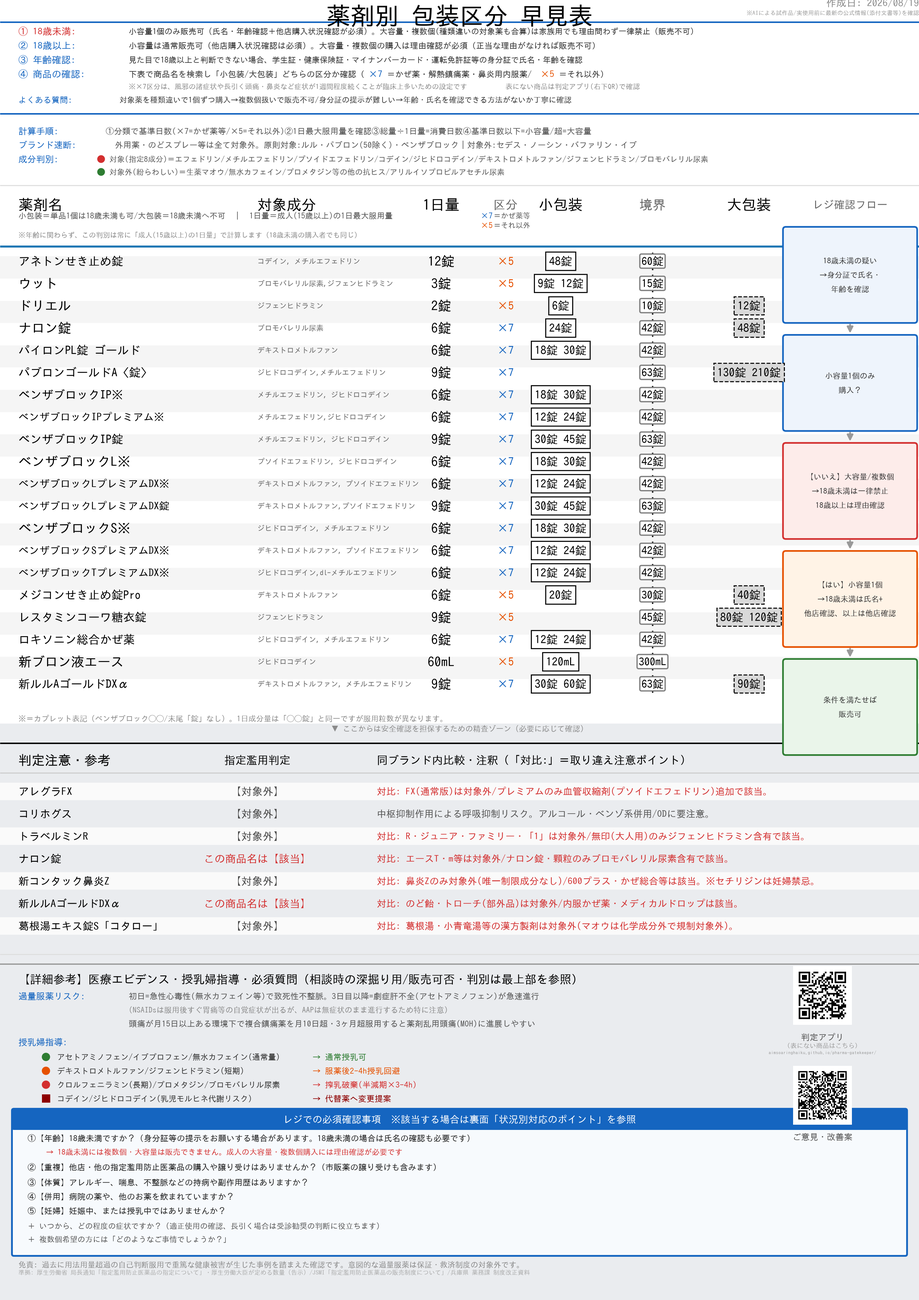
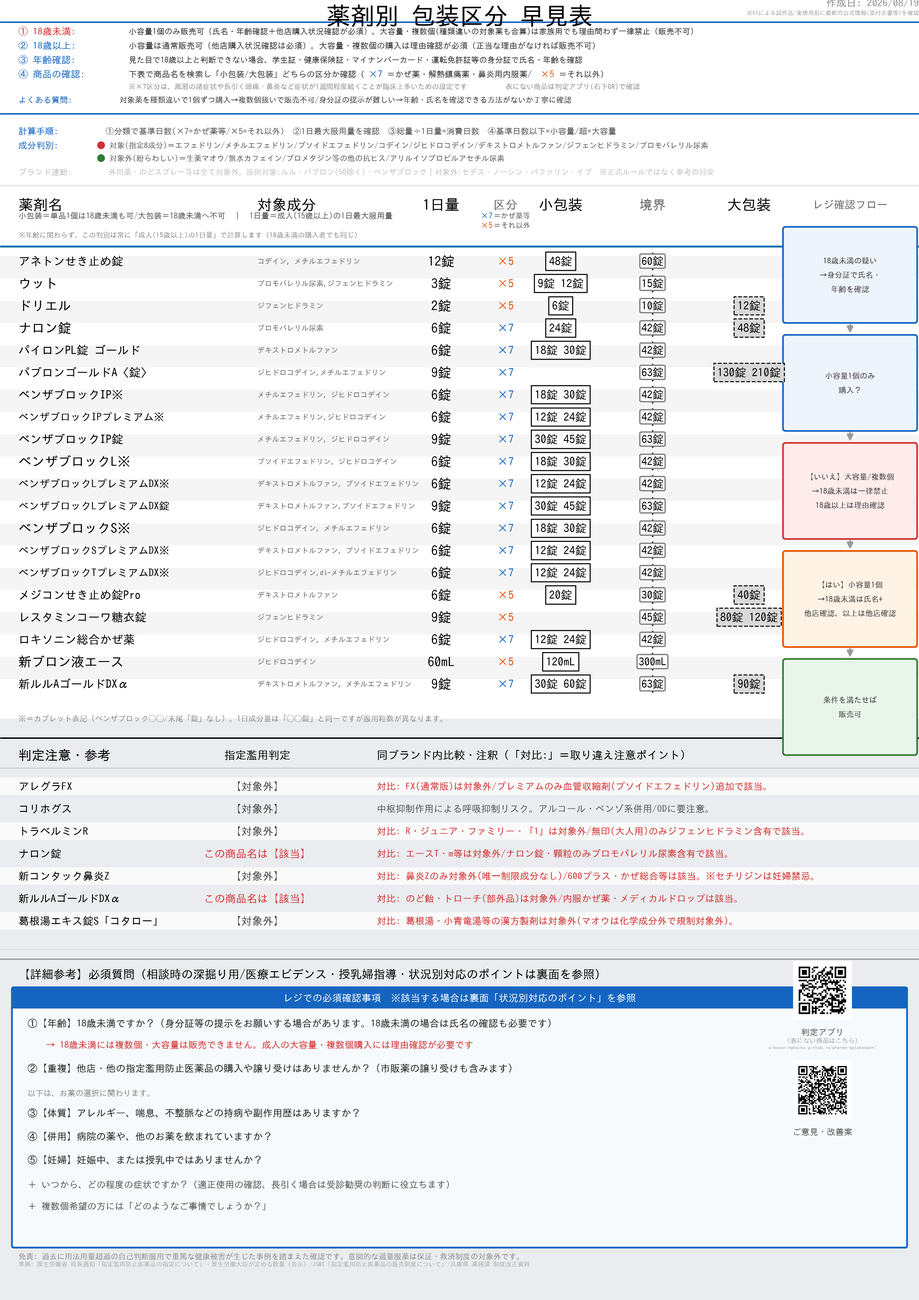
裏面を縦2横2グリッドに再設計、表面から授乳婦指導・過量服薬リスクを移動
【裏面】8ケースを①②④/③/⑤/その他の4象限に再編成し、色分けされた角丸ボックスで
視認性を改善。授乳婦指導を⑤妊娠・授乳中の象限に、過量服薬リスクを成分の落とし穴の
象限にそれぞれ統合。

【表面】
- 授乳婦指導・過量服薬リスクのセクションを裏面へ移動し、空いたスペースで必須質問
  ボックスを拡大（フォント・行間を拡大して読みやすく、「以下は、お薬の選択に関わり
  ます。」の区切りも追加）
- 精査ゾーンの見出しテキストを削除（背景の色分けのみ残す）
- 計算手順の各ステップ間にスペースを追加
- ブランド速断を成分判別の下に移動し、非公式の参考情報であることが分かるよう
  半透明・斜体のウォーターマーク調スタイルに変更

diff --git a/vpc_v11_back.py b/vpc_v11_back.py
@@ -13,11 +13,11 @@ ax.set_ylim(0, LOGICAL_H)
 ax.axis("off")
 fig.canvas.draw()  # テキスト幅計測のため、先に一度描画してレンダラーを確保
 
-BLUE, RED, ORANGE, GREEN, GRAY = "#1565c0", "#d32f2f", "#e65100", "#2e7d32", "#555555"
+BLUE, RED, ORANGE, GREEN, GRAY, DARKRED = "#1565c0", "#d32f2f", "#e65100", "#2e7d32", "#555555", "#8e0000"
 
 
-def text_width(text, fontsize, weight="normal"):
-    t = ax.text(0, -100, text, fontsize=fontsize, fontweight=weight, ha="left", va="center")
+def text_width(text, fontsize, weight="normal", style="normal"):
+    t = ax.text(0, -100, text, fontsize=fontsize, fontweight=weight, fontstyle=style, ha="left", va="center")
     fig.canvas.draw()
     bbox = t.get_window_extent(renderer=fig.canvas.get_renderer())
     inv = ax.transData.inverted()
@@ -30,9 +30,7 @@ def text_width(text, fontsize, weight="normal"):
 ax.text(LOGICAL_W / 2, 68.0, "【裏面】状況別対応のポイント（想定ケースと臨床エビデンス）", fontsize=13, fontweight="bold", ha="center", va="center", color=GRAY)
 ax.hlines(66.2, 2.0, 98.0, colors="#999999", linewidth=1.2)
 
-COL1_X, COL2_X = 2.0, 51.0
-COL_W = 47.0
-TITLE_FS, BODY_FS, LINE_H = 7.6, 6.8, 1.5
+TITLE_FS, BODY_FS, LINE_H = 8.2, 7.2, 1.75
 
 
 def wrap_to_width(text, fontsize, max_width):
@@ -50,12 +48,12 @@ def wrap_to_width(text, fontsize, max_width):
     return lines
 
 
-def draw_case(ax, x, y, q_num, category, condition, action_lines):
+def draw_case(ax, x, y, col_w, q_num, category, condition, action_lines):
     """タイトルの右に1点目の内容を続け、2点目以降はタイトル下に列挙。縦スペースを節約する。"""
     header = f"{q_num}［{category}］{condition}"
     ax.text(x, y, header, fontsize=TITLE_FS, fontweight="bold", ha="left", va="center", color=BLUE)
     header_w = text_width(header, TITLE_FS, "bold")
-    remaining_w = COL_W - header_w - 1.5
+    remaining_w = col_w - header_w - 1.5
 
     bullets = list(action_lines)
     first_on_same_line = False
@@ -75,73 +73,120 @@ def draw_case(ax, x, y, q_num, category, condition, action_lines):
         is_alert = ("禁忌" in bullet) or ("一律" in bullet) or ("不可" in bullet)
         color = RED if is_alert else "#333333"
         weight = "bold" if is_alert else "normal"
-        wrapped = wrap_to_width(bullet, BODY_FS, COL_W - 1.2)
+        wrapped = wrap_to_width(bullet, BODY_FS, col_w - 1.2)
         for wi, wline in enumerate(wrapped):
             indent = x + 1.2 if wi == 0 else x + 3.0
             ax.text(indent, text_y, wline, fontsize=BODY_FS, ha="left", va="center", color=color, fontweight=weight)
             text_y -= LINE_H
 
-    sep_y = text_y + LINE_H * 0.35
-    ax.hlines(sep_y, x, x + COL_W, colors="#e5e5e5", linewidth=0.7)
-    return sep_y - 0.9
+    return text_y - 0.55
 
 
-current_y_col1 = 63.5
-current_y_col2 = 63.5
+def draw_quadrant(ax, x, y, w, h, title, color, fill, cases):
+    """2x2グリッドの1マスを描画。角丸枠＋色付きヘッダー＋ケース一覧。"""
+    ax.add_patch(patches.FancyBboxPatch((x, y), w, h, boxstyle="round,pad=0.15",
+                                         linewidth=1.4, edgecolor=color, facecolor=fill, zorder=1))
+    header_h = 3.3
+    ax.add_patch(patches.FancyBboxPatch((x, y + h - header_h), w, header_h, boxstyle="round,pad=0.15",
+                                         linewidth=0, facecolor=color, zorder=2))
+    ax.text(x + w / 2, y + h - header_h / 2, title, fontsize=9.2, fontweight="bold",
+            ha="center", va="center", color="white", zorder=3)
 
-# --- 左カラム（年齢・重複・体質・成分の落とし穴） ---
-current_y_col1 = draw_case(ax, COL1_X, current_y_col1, "①②", "年齢・重複",
-    "18歳未満、または複数個(他店合算)を希望されたら", [
-    "▶ 18歳未満への大容量・複数個(種類違い含む)は理由問わず一律禁止（販売不可）。家族用でも例外なし。",
-    "▶ 12歳未満はコデイン系(ジヒドロコデイン含む)が処方・市販とも絶対禁忌。他成分の咳止めへ。",
-    "▶ 身分証の提示を拒否されたら、年齢確認不能のため販売不可。",
+    content_x = x + 1.8
+    content_w = w - 3.4
+    cy = y + h - header_h - 2.1
+    for item in cases:
+        if item[0] == "case":
+            _, q_num, category, condition, bullets = item
+            cy = draw_case(ax, content_x, cy, content_w, q_num, category, condition, bullets)
+        elif item[0] == "note":
+            _, text = item
+            wrapped = wrap_to_width(text, 6.2, content_w)
+            for wline in wrapped:
+                ax.text(content_x, cy, wline, fontsize=6.2, fontstyle="italic", ha="left", va="center", color=GRAY)
+                cy -= 1.3
+            cy -= 0.1
+        elif item[0] == "marker_list":
+            _, rows = item
+            for mcolor, mshape, tag, ingr in rows:
+                if mshape == "circle":
+                    ax.add_patch(patches.Circle((content_x + 0.5, cy), 0.4, facecolor=mcolor, edgecolor="none", zorder=3))
+                else:
+                    ax.add_patch(patches.Rectangle((content_x + 0.1, cy - 0.4), 0.8, 0.8, facecolor=mcolor, edgecolor="none", zorder=3))
+                wrapped = wrap_to_width(ingr, 6.1, content_w - 2.2)
+                ax.text(content_x + 1.5, cy, wrapped[0], fontsize=6.1, fontweight="bold", ha="left", va="center", color="#333333")
+                cy -= LINE_H * 0.85
+                ax.text(content_x + 1.5, cy, "→ " + tag, fontsize=6.2, fontweight="bold", ha="left", va="center", color=mcolor)
+                cy -= LINE_H * 0.95
+    return cy
+
+
+# --- 2x2グリッド配置 ---
+GRID_LEFT, GRID_RIGHT = 2.0, 98.0
+GRID_TOP, GRID_BOTTOM = 64.3, 4.0
+GUTTER = 2.0
+COL_W = (GRID_RIGHT - GRID_LEFT - GUTTER) / 2
+ROW_H = (GRID_TOP - GRID_BOTTOM - GUTTER) / 2
+
+Q1_X, Q2_X = GRID_LEFT, GRID_LEFT + COL_W + GUTTER
+ROW1_Y, ROW2_Y = GRID_BOTTOM + ROW_H + GUTTER, GRID_BOTTOM
+
+# --- Q1: 年齢・重複購入・併用 ---
+draw_quadrant(ax, Q1_X, ROW1_Y, COL_W, ROW_H, "①②④ 年齢・重複・併用", BLUE, "#f7fafd", [
+    ("case", "①②", "年齢・重複", "18歳未満、または複数個(他店合算)を希望されたら", [
+        "▶ 18歳未満への大容量・複数個(種類違い含む)は理由問わず一律禁止（販売不可）。家族用でも例外なし。",
+        "▶ 12歳未満はコデイン系(ジヒドロコデイン含む)が処方・市販とも絶対禁忌。他成分の咳止めへ。",
+        "▶ 身分証の提示を拒否されたら、年齢確認不能のため販売不可。",
+    ]),
+    ("case", "④", "併用", "SSRI服用中、または他の薬との併用を聞かれたら", [
+        "▶ DXM×SSRIはセロトニン症候群のリスク（濫用防止領域で最も急性致死率が高い相互作用）。慎重に対応。",
+        "▶ グレープフルーツジュースはDXMの血中濃度を上昇。マクロライド系/アゾール系薬はQT延長・心室頻拍に注意。",
+    ]),
 ])
 
-current_y_col1 = draw_case(ax, COL1_X, current_y_col1, "③", "体質(アレルギー)",
-    "解熱鎮痛薬でアレルギー歴があると聞いたら", [
-    "▶ ピリン疹ならNSAIDs（ロキソプロフェン等）へ代替可。",
-    "▶ アスピリン喘息はNSAIDs全般（ロキソプロフェン/イブプロフェン/アスピリン等）に100%交差耐性があり全てNG→AAP単剤のみ提案。",
+# --- Q2: 体質・持病・外用薬 ---
+draw_quadrant(ax, Q2_X, ROW1_Y, COL_W, ROW_H, "③ 体質・持病", ORANGE, "#fff8f0", [
+    ("case", "③", "体質(アレルギー)", "解熱鎮痛薬でアレルギー歴があると聞いたら", [
+        "▶ ピリン疹ならNSAIDs（ロキソプロフェン等）へ代替可。",
+        "▶ アスピリン喘息はNSAIDs全般（ロキソプロフェン/イブプロフェン/アスピリン等）に100%交差耐性があり全てNG→AAP単剤のみ提案。",
+    ]),
+    ("case", "③", "体質(喘息・不整脈等)", "喘息・不整脈・緑内障・前立腺肥大の既往を聞いたら", [
+        "▶ 抗コリン薬/第一世代抗ヒスタミン薬は、喘息で痰の粘稠化・排痰困難、不整脈で頻脈・QT延長のリスク。",
+        "▶ 緑内障は眼圧上昇、前立腺肥大は尿閉のリスクがあり要注意。単一成分薬を推奨。",
+    ]),
+    ("case", "※", "外用薬・アンナカ", "外用薬や無水カフェインについて聞かれたら", [
+        "▶ 軟膏・クリーム・目薬等の外用剤は規制対象成分が入っていても対象外。",
+        "▶ アンナカ（無水カフェイン）はお茶・コーヒー等にも大量に含まれ、医薬品だけの一律規制が非現実的なため対象外。",
+    ]),
 ])
 
-current_y_col1 = draw_case(ax, COL1_X, current_y_col1, "③", "体質(喘息・不整脈等)",
-    "喘息・不整脈・緑内障・前立腺肥大の既往を聞いたら", [
-    "▶ 抗コリン薬/第一世代抗ヒスタミン薬は、喘息で痰の粘稠化・排痰困難、不整脈で頻脈・QT延長のリスク。",
-    "▶ 緑内障は眼圧上昇、前立腺肥大は尿閉のリスクがあり要注意。単一成分薬を推奨。",
+# --- Q3: 妊娠・授乳中（授乳婦指導を統合） ---
+draw_quadrant(ax, Q1_X, ROW2_Y, COL_W, ROW_H, "⑤ 妊娠・授乳中", RED, "#fdf5f5", [
+    ("case", "⑤", "妊婦・授乳", "妊娠中、または授乳中と分かったら", [
+        "▶ 妊娠後期のコデイン系（パブロン/ルル等）は禁忌（新生児呼吸抑制）→メジコン等単剤（デキストロメトルファン）を提案。",
+        "▶ 抗コリン薬（ブスコパン等）はOTCでは一律禁忌（処方箋なら有益性投与可）。授乳中は母乳分泌低下・乳児頻脈のリスクで中断。",
+    ]),
+    ("note", "授乳婦指導（成分別の目安）:"),
+    ("marker_list", [
+        (GREEN, "circle", "通常授乳可", "アセトアミノフェン/イブプロフェン/無水カフェイン(通常量)"),
+        (ORANGE, "circle", "服薬後2-4h授乳回避", "デキストロメトルファン/ジフェンヒドラミン(短期)"),
+        (RED, "circle", "搾乳破棄(半減期×3-4h)", "クロルフェニラミン(長期)/プロメタジン/ブロモバレリル尿素"),
+        (DARKRED, "square", "代替薬へ変更提案", "コデイン/ジヒドロコデイン(乳児モルヒネ代謝リスク)"),
+    ]),
 ])
 
-current_y_col1 = draw_case(ax, COL1_X, current_y_col1, "※", "成分の落とし穴",
-    "長期連用・依存が疑われたら", [
-    "▶ ブロモバレリル尿素等ウレイド系は長期乱用で臭素蓄積→歩行困難・幻覚（慢性臭素中毒）。高齢者はせん妄・認知機能低下も。",
-    "▶ 月15日以上頭痛がある環境で複合鎮痛薬を月10日超・3ヶ月超服用→薬剤乱用頭痛（MOH）に進展。",
+# --- Q4: その他の注意点（過量服薬リスクを成分の落とし穴に統合） ---
+draw_quadrant(ax, Q2_X, ROW2_Y, COL_W, ROW_H, "その他の注意点", GREEN, "#f3f9f3", [
+    ("case", "※", "成分の落とし穴・過量服薬", "長期連用・依存や過量服薬が疑われたら", [
+        "▶ ブロモバレリル尿素等ウレイド系は長期乱用で臭素蓄積→歩行困難・幻覚（慢性臭素中毒）。高齢者はせん妄・認知機能低下も。",
+        "▶ 月15日以上頭痛がある環境で複合鎮痛薬を月10日超・3ヶ月超服用→薬剤乱用頭痛（MOH）に進展。",
+        "▶ 過量服薬は初日=急性心毒性(無水カフェイン等)、3日目以降=劇症肝不全(アセトアミノフェン)が急速進行。NSAIDsは自覚症状ありだがAAPは無症状のまま進行するため特に注意。",
+    ]),
+    ("case", "※", "運転", "運転前後の服用を心配されたら", [
+        "▶ 最も排泄が遅い成分を基準に判断。経口・dl体クロルフェニラミン（アネトン/パブロンゴールドA等）の半減期は12〜15h",
+        "  →服用当日〜翌朝は運転を避けるよう案内。",
+    ]),
 ])
-
-# --- 右カラム（併用・妊婦授乳・その他） ---
-current_y_col2 = draw_case(ax, COL2_X, current_y_col2, "④", "併用",
-    "SSRI服用中、または他の薬との併用を聞かれたら", [
-    "▶ DXM×SSRIはセロトニン症候群のリスク（濫用防止領域で最も急性致死率が高い相互作用）。慎重に対応。",
-    "▶ グレープフルーツジュースはDXMの血中濃度を上昇。高脂肪食後はウレイド系の吸収を促進。マクロライド系/アゾール系薬はQT延長・心室頻拍に注意。",
-])
-
-current_y_col2 = draw_case(ax, COL2_X, current_y_col2, "⑤", "妊婦・授乳",
-    "妊娠中、または授乳中と分かったら", [
-    "▶ 妊娠後期のコデイン系（パブロン/ルル等）は禁忌（新生児呼吸抑制）→メジコン等単剤（デキストロメトルファン）を提案。",
-    "▶ 抗コリン薬（ブスコパン等）はOTCでは一律禁忌（処方箋なら有益性投与可）。授乳中は母乳分泌低下・乳児頻脈のリスクで中断。",
-])
-
-current_y_col2 = draw_case(ax, COL2_X, current_y_col2, "※", "運転",
-    "運転前後の服用を心配されたら", [
-    "▶ 最も排泄が遅い成分を基準に判断。経口・dl体クロルフェニラミン（アネトン/パブロンゴールドA等）の半減期は12〜15h",
-    "  →服用当日〜翌朝は運転を避けるよう案内。",
-])
-
-current_y_col2 = draw_case(ax, COL2_X, current_y_col2, "※", "外用薬・アンナカ",
-    "外用薬や無水カフェインについて聞かれたら", [
-    "▶ 軟膏・クリーム・目薬等の外用剤は規制対象成分が入っていても対象外。",
-    "▶ アンナカ（無水カフェイン）はお茶・コーヒー・エナジードリンク等にも大量に含まれ、医薬品だけの一律規制が非現実的なため対象外（危険性は認識されている）。",
-])
-
-# --- 中央区切り線 ---
-ax.plot([49.5, 49.5], [4.0, 66.2], color="#dddddd", linewidth=1.0, linestyle="--")
 
 # --- 下部免責・出典 ---
 ax.text(LOGICAL_W / 2, 2.6, "※本マニュアルは一次的対応の目安であり、個別の診断を行うものではありません。最終判断は薬剤師・登録販売者の専門的知見に基づき実施してください。",
@@ -153,4 +198,3 @@ ax.text(LOGICAL_W / 2, 1.3,
 plt.savefig(OUTPUT_PNG, dpi=300)  # bbox_inches="tight"を使わない（比率固定のため）
 plt.close()
 print(f"v11【裏面】出力完了: {OUTPUT_PNG}")
-print(f"col1_end={current_y_col1:.2f} col2_end={current_y_col2:.2f}")

diff --git a/vpc_v11_front.py b/vpc_v11_front.py
@@ -197,16 +197,11 @@ current_y -= 1.5
 ax.hlines(current_y, 0, LOGICAL_W, colors=BLUE, linewidth=1.2)
 current_y -= 0.35
 
-# --- 計算手順・ブランド速断・成分判別（実務でよく使う判別系を、本体テーブルの直前に集約） ---
+# --- 計算手順・成分判別・ブランド速断（実務でよく使う判別系を、本体テーブルの直前に集約） ---
 current_y -= 1.55
 ax.text(COL_NAME_X, current_y, "計算手順:", fontsize=7.07, fontweight="bold", ha="left", va="center", color=BLUE)
 ax.text(COL_NAME_X + 9.5, current_y,
-        "①分類で基準日数(×7=かぜ薬等/×5=それ以外)②1日最大服用量を確認③総量÷1日量=消費日数④基準日数以下=小容量/超=大容量",
-        fontsize=6.4, ha="left", va="center", color=GRAY)
-current_y -= 1.5
-ax.text(COL_NAME_X, current_y, "ブランド速断:", fontsize=7.07, fontweight="bold", ha="left", va="center", color=BLUE)
-ax.text(COL_NAME_X + 10.5, current_y,
-        "外用薬・のどスプレー等は全て対象外。原則対象:ルル・パブロン(50除く)・ベンザブロック｜対象外:セデス・ノーシン・バファリン・イブ",
+        "①分類で基準日数(×7=かぜ薬等/×5=それ以外)　②1日最大服用量を確認　③総量÷1日量=消費日数　④基準日数以下=小容量/超=大容量",
         fontsize=6.4, ha="left", va="center", color=GRAY)
 current_y -= 1.55
 ax.text(COL_NAME_X, current_y, "成分判別:", fontsize=7.07, fontweight="bold", ha="left", va="center", color=BLUE)
@@ -219,6 +214,13 @@ marker(ax, COL_NAME_X + 9.0, current_y, GREEN, "circle", 0.42)
 ax.text(COL_NAME_X + 9.9, current_y,
         "対象外(紛らわしい)＝生薬マオウ/無水カフェイン/プロメタジン等の他の抗ヒス/アリルイソプロピルアセチル尿素",
         fontsize=5.9, ha="left", va="center", color=GRAY)
+current_y -= 1.5
+ax.text(COL_NAME_X, current_y, "ブランド速断:", fontsize=6.6, fontweight="bold", fontstyle="italic",
+        ha="left", va="center", color=LGRAY, alpha=0.55)
+ax.text(COL_NAME_X + 9.8, current_y,
+        "外用薬・のどスプレー等は全て対象外。原則対象:ルル・パブロン(50除く)・ベンザブロック｜対象外:セデス・ノーシン・バファリン・イブ"
+        "　※正式ルールではなく参考の目安",
+        fontsize=6.0, fontstyle="italic", ha="left", va="center", color=LGRAY, alpha=0.55)
 current_y -= 1.45
 ax.hlines(current_y, 0, LOGICAL_W, colors="#dddddd", linewidth=0.8)
 current_y -= 0.35
@@ -325,12 +327,9 @@ ax.text(COL_NAME_X, current_y,
         "※＝カプレット表記（ベンザブロック◯◯/末尾「錠」なし）。1日成分量は「◯◯錠」と同一ですが服用粒数が異なります。",
         fontsize=6.1, ha="left", va="center", color="#888888")
 
-# --- ゾーン区分：ここから下は「精査ゾーン」（安全確認業務の質を担保する詳細情報） ---
-current_y -= 1.1
+current_y -= 0.55
 zone_top = current_y + 0.55
 ax.add_patch(patches.Rectangle((0, -3), LOGICAL_W, zone_top + 3, facecolor="#eaecef", edgecolor="none", zorder=-2))
-ax.text(LOGICAL_W / 2, current_y, "▼ ここからは安全確認を担保するための精査ゾーン（必要に応じて確認）",
-        fontsize=6.0, fontweight="bold", ha="center", va="center", color="#8a8a8a", style="italic")
 current_y -= 0.55
 
 # --- 判定注意・参考（マトリックス） ---
@@ -409,41 +408,14 @@ DL, DR = 0.0, 82.0  # 本文カラム幅（右のQR縦積み列を避ける）
 y = detail_top
 ax.hlines(y, 0, LOGICAL_W, colors="#999999", linewidth=1.0)
 y -= 1.62
-ax.text(COL_NAME_X, y, "【詳細参考】医療エビデンス・授乳婦指導・必須質問（相談時の深掘り用/販売可否・判別は最上部を参照）",
+ax.text(COL_NAME_X, y, "【詳細参考】必須質問（相談時の深掘り用/医療エビデンス・授乳婦指導・状況別対応のポイントは裏面を参照）",
         fontsize=9.15, fontweight="bold", ha="left", va="center")
 y -= 1.84
-
-# E. 医療エビデンス（1行要約×3）
-ax.text(COL_NAME_X, y, "過量服薬リスク:", fontsize=7.07, fontweight="bold", ha="left", va="center", color=BLUE)
-ax.text(COL_NAME_X + 12.0, y, "初日=急性心毒性(無水カフェイン等)で致死性不整脈。3日目以降=劇症肝不全(アセトアミノフェン)が急速進行",
-        fontsize=6.59, ha="left", va="center", color=GRAY)
-y -= 1.5
-ax.text(COL_NAME_X + 12.0, y, "(NSAIDsは服用後すぐ胃痛等の自覚症状が出るが、AAPは無症状のまま進行するため特に注意)",
-        fontsize=6.0, ha="left", va="center", color=LGRAY)
-y -= 1.5
-ax.text(COL_NAME_X + 12.0, y, "頭痛が月15日以上ある環境下で複合鎮痛薬を月10日超・3ヶ月超服用すると薬剤乱用頭痛(MOH)に進展しやすい",
-        fontsize=6.4, ha="left", va="center", color=GRAY)
-y -= 2.0
-
-# F. 授乳婦指導（色マーカー4段）
-ax.text(COL_NAME_X, y, "授乳婦指導:", fontsize=7.07, fontweight="bold", ha="left", va="center", color=BLUE)
-y -= 1.62
-nursing_rows = [
-    (GREEN, "circle", "通常授乳可", "アセトアミノフェン/イブプロフェン/無水カフェイン(通常量)"),
-    (ORANGE, "circle", "服薬後2-4h授乳回避", "デキストロメトルファン/ジフェンヒドラミン(短期)"),
-    (RED, "circle", "搾乳破棄(半減期×3-4h)", "クロルフェニラミン(長期)/プロメタジン/ブロモバレリル尿素"),
-    (DARKRED, "square", "代替薬へ変更提案", "コデイン/ジヒドロコデイン(乳児モルヒネ代謝リスク)"),
-]
-for color, shape, tag, ingr in nursing_rows:
-    marker(ax, COL_NAME_X + 3.0, y, color, shape, 0.45)
-    ax.text(COL_NAME_X + 4.2, y, ingr, fontsize=6.3, fontweight="bold", ha="left", va="center", color="#333333")
-    ax.text(COL_NAME_X + 32.0, y, "→ " + tag, fontsize=6.4, fontweight="bold", ha="left", va="center", color=color)
-    y -= 1.51
 
 # G. 必須質問（厚労省チェック項目に準拠。該当時は裏面の「状況別対応のポイント」を参照）
 y -= 0.5
 box_top = y + 0.7
-box_h = 15.6
+box_h = box_top - 5.9
 ax.add_patch(patches.FancyBboxPatch((COL_NAME_X - 0.5, box_top - box_h), LOGICAL_W - 2 * (COL_NAME_X - 0.5), box_h,
                                      boxstyle="round,pad=0.2", linewidth=1.4, edgecolor=BLUE, facecolor="#f7fafd", zorder=2))
 ax.add_patch(patches.FancyBboxPatch((COL_NAME_X - 0.5, box_top - 1.9), LOGICAL_W - 2 * (COL_NAME_X - 0.5), 1.9,
@@ -451,30 +423,33 @@ ax.add_patch(patches.FancyBboxPatch((COL_NAME_X - 0.5, box_top - 1.9), LOGICAL_W
 ax.text(LOGICAL_W / 2, box_top - 0.95, "レジでの必須確認事項　※該当する場合は裏面「状況別対応のポイント」を参照",
         fontsize=7.6, fontweight="bold", ha="center", va="center", color="white", zorder=3)
 
-qy = box_top - 3.0
+qy = box_top - 3.7
 ax.text(COL_NAME_X + 1.0, qy, "①【年齢】18歳未満ですか？（身分証等の提示をお願いする場合があります。18歳未満の場合は氏名の確認も必要です）",
-        fontsize=6.4, fontweight="bold", ha="left", va="center", color="#222222", zorder=3)
-qy -= 1.5
+        fontsize=7.8, fontweight="bold", ha="left", va="center", color="#222222", zorder=3)
+qy -= 2.35
 ax.text(COL_NAME_X + 3.0, qy, "→ 18歳未満には複数個・大容量は販売できません。成人の大容量・複数個購入には理由確認が必要です",
-        fontsize=5.9, ha="left", va="center", color=RED, zorder=3)
-qy -= 1.65
+        fontsize=7.1, ha="left", va="center", color=RED, zorder=3)
+qy -= 2.55
 ax.text(COL_NAME_X + 1.0, qy, "②【重複】他店・他の指定濫用防止医薬品の購入や譲り受けはありませんか？（市販薬の譲り受けも含みます）",
-        fontsize=6.4, fontweight="bold", ha="left", va="center", color="#222222", zorder=3)
-qy -= 1.65
+        fontsize=7.8, fontweight="bold", ha="left", va="center", color="#222222", zorder=3)
+qy -= 2.7
+ax.text(COL_NAME_X + 1.0, qy, "以下は、お薬の選択に関わります。", fontsize=6.2, fontstyle="italic",
+        ha="left", va="center", color=LGRAY, zorder=3)
+qy -= 2.15
 ax.text(COL_NAME_X + 1.0, qy, "③【体質】アレルギー、喘息、不整脈などの持病や副作用歴はありますか？",
-        fontsize=6.4, fontweight="bold", ha="left", va="center", color="#222222", zorder=3)
-qy -= 1.55
+        fontsize=7.8, fontweight="bold", ha="left", va="center", color="#222222", zorder=3)
+qy -= 2.55
 ax.text(COL_NAME_X + 1.0, qy, "④【併用】病院の薬や、他のお薬を飲まれていますか？",
-        fontsize=6.4, fontweight="bold", ha="left", va="center", color="#222222", zorder=3)
-qy -= 1.55
+        fontsize=7.8, fontweight="bold", ha="left", va="center", color="#222222", zorder=3)
+qy -= 2.55
 ax.text(COL_NAME_X + 1.0, qy, "⑤【妊婦】妊娠中、または授乳中ではありませんか？",
-        fontsize=6.4, fontweight="bold", ha="left", va="center", color="#222222", zorder=3)
-qy -= 1.65
+        fontsize=7.8, fontweight="bold", ha="left", va="center", color="#222222", zorder=3)
+qy -= 2.7
 ax.text(COL_NAME_X + 1.0, qy, "＋ いつから、どの程度の症状ですか？（適正使用の確認、長引く場合は受診勧奨の判断に役立ちます）",
-        fontsize=5.9, ha="left", va="center", color=GRAY, zorder=3)
-qy -= 1.45
+        fontsize=7.1, ha="left", va="center", color=GRAY, zorder=3)
+qy -= 2.35
 ax.text(COL_NAME_X + 1.0, qy, "＋ 複数個希望の方には「どのようなご事情でしょうか？」",
-        fontsize=5.9, ha="left", va="center", color=GRAY, zorder=3)
+        fontsize=7.1, ha="left", va="center", color=GRAY, zorder=3)
 y = box_top - box_h - 0.9
 
 y -= 0.25
